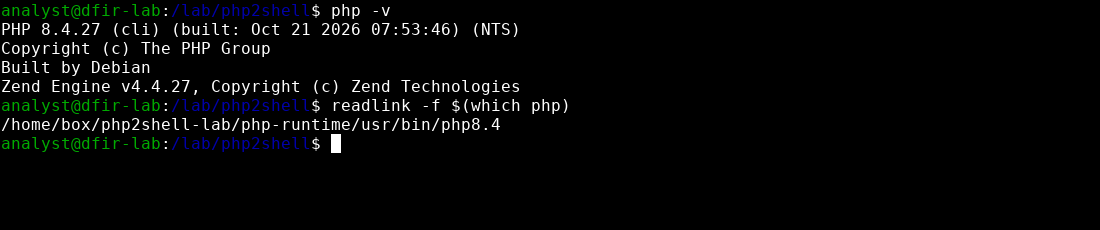
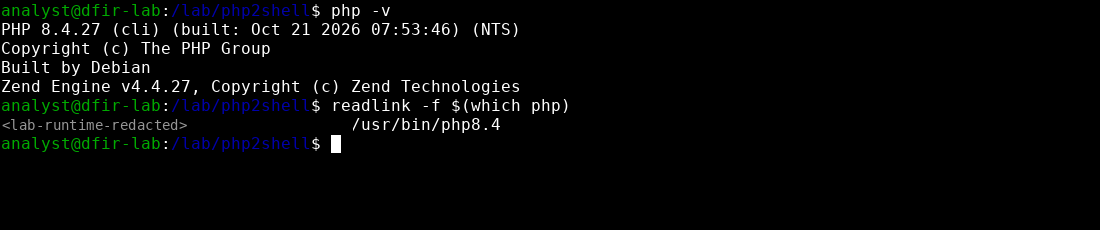
README: clarify CVE-2026-115560 and partial interim mitigation; redact lab paths in screenshots

Changed region(s): [[0.0, 0.5174, 0.34, 0.5783]]

diff --git a/README.md b/README.md
@@ -21,7 +21,7 @@
 ## 2. Advisory tracker
 
 - **CVE-2026-109618, CVE-2026-109619** — critical memory-safety bugs in the PHP engine, collectively tracked as "php2shell". Under triage here.
-- **115560** — informational only; not in scope for this note.
+- **CVE-2026-115560** — related, out of scope for this note (informational only).
 
 [CISA alert, 2026-10-21](https://www.cisa.gov/news-events/alerts/2026/10/21/critical-vulnerabilities-php-require-immediate-patching) urges immediate upgrade to the fixed branches below and points defenders to detection content in CISA's public SIGMA repository. The [Qualys write-up](https://blog.qualys.com/vulnerabilities-threat-research/2026/10/20/php-announces-critical-security-release-for-two-vulnerabilities) describes the issue as reachable over normal web requests on unpatched workers, which is why process ancestry and webroot integrity are the main hunt signals. See also [php.net releases](https://www.php.net/releases/).
 
@@ -47,6 +47,8 @@ session.upload_progress.enabled = Off
 $ php -c conf/php.ini-mitigation.conf -i | grep upload_progress.enabled
 session.upload_progress.enabled => Off => Off
 ```
+
+> **Partial interim mitigation only.** `session.upload_progress.enabled = Off` is just one of the interim controls — it is **not** the full set. PHP and Qualys also discuss other interim controls (e.g. `memory_limit` tuning related to CVE-2026-109618). Operators should follow the full vendor (PHP) and CISA guidance, and treat upgrading to a fixed build as the only real fix.
 
 Result: lab runtime is 8.4.27 (at the patched floor) and the mitigation directive loads. In production, put it in the FPM pool / Apache ini and **restart every worker**.
 
@@ -157,7 +159,7 @@ Expect false positives from legitimate `exec()`/`shell_exec()` in apps (image co
 
 1. Inventory every PHP install (CLI, FPM, Apache, containers); note branch and package source.
 2. Upgrade to the fixed version or confirm vendor backport by advisory ID.
-3. Until patched: `session.upload_progress.enabled = Off`, restart workers.
+3. Until patched: `session.upload_progress.enabled = Off` (partial — apply the full PHP/CISA interim guidance too), restart workers.
 4. Verify running workers' start time is after the upgrade (`ps -o lstart= -p <pid>`).
 5. Run the hunt commands; diff webroot hashes against baseline.
 6. Turn on auditd/Sigma rule; review hits after 24h.
